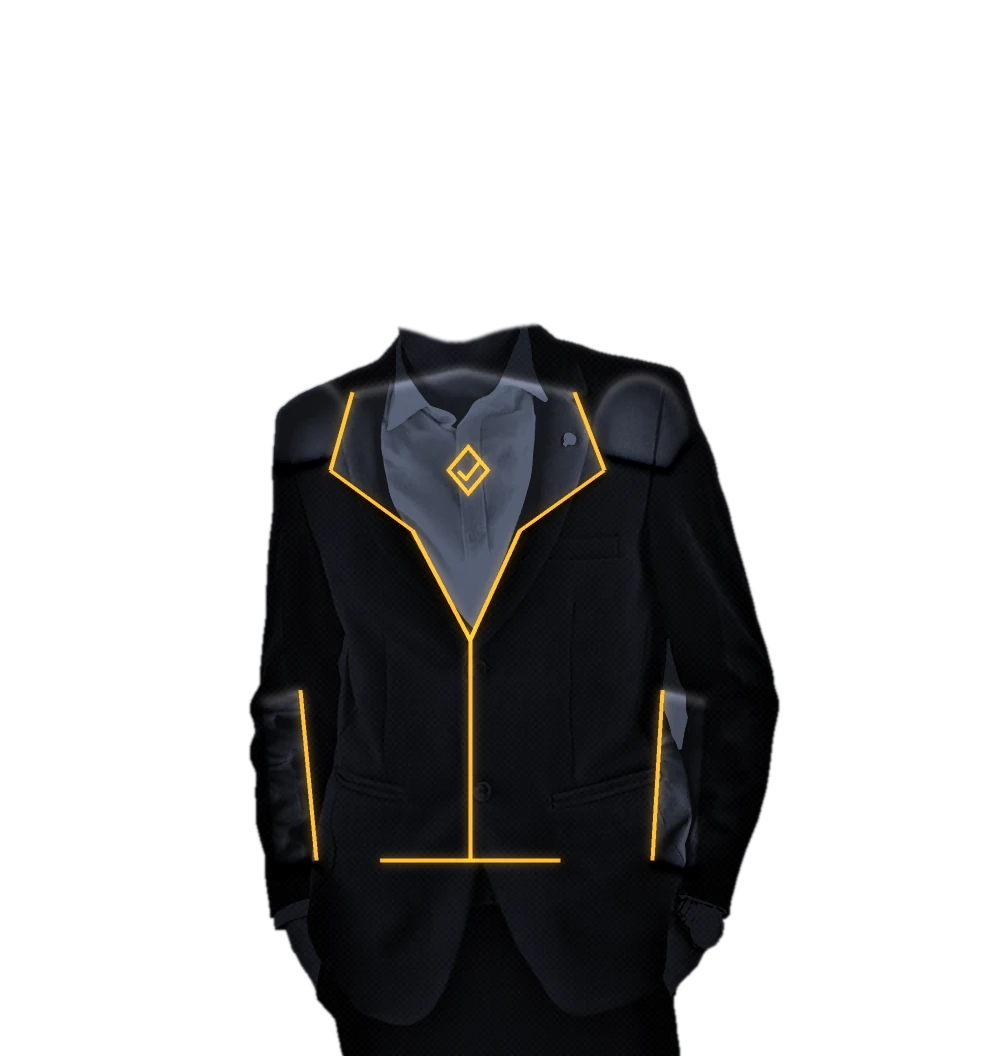
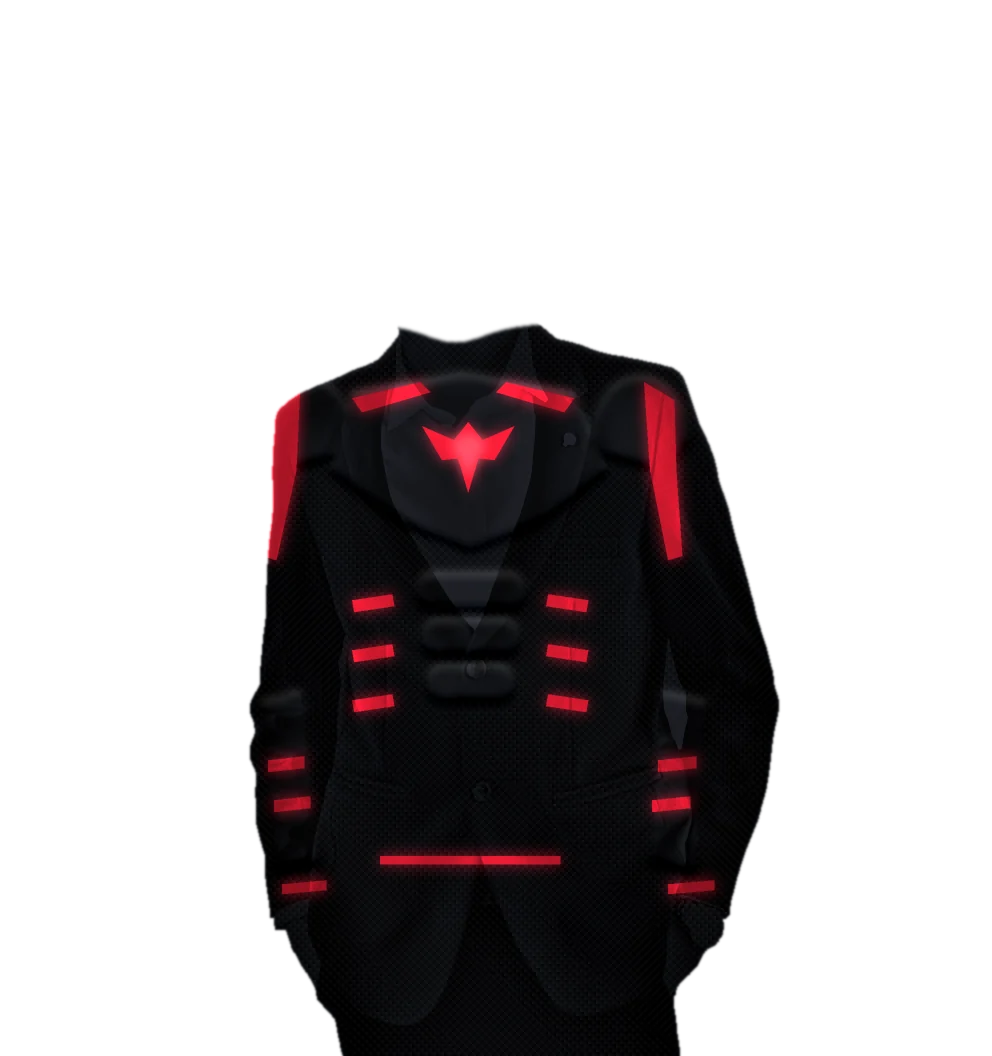
Restyle the suit as black armour with glowing red accents; use it in the hero
Based on the user's own concept art: matte black carbon-weave suit with
dark segmented armour (chest shield, pauldrons, ab plates, forearm
guards), glowing red shoulder stripes, ribs, cuffs and belt, and an
angular red chevron emblem. The face stays visible.

- public/about/suit.webp: overlay for the hanging About photo
- public/about/suited-cutout.webp: suited cut-out, now the hero's top
  layer; the hover lens still reveals the plain photo
- scripts/generate-suit-overlay.py regenerates both

Claude-Session: https://claude.ai/code/session_01HchGe6HDs7Z8A4Erf8KS2W

diff --git a/src/components/HeroSection.tsx b/src/components/HeroSection.tsx
@@ -12,7 +12,7 @@ const STATS = [
 ];
 
 /**
- * Portrait with a "hover to reveal" lens: a comic-poster version sits on top,
+ * Portrait with a "hover to reveal" lens: the suited-up version sits on top,
  * and a circular lens that follows the pointer reveals the real photo.
  */
 function RevealPortrait() {
@@ -55,7 +55,7 @@ function RevealPortrait() {
 
   const revealed = active || pinned;
   const real = "/spidey/me-cutout.webp";
-  const comic = resume.personal.alterEgo ?? "/spidey/comic.webp";
+  const comic = resume.personal.alterEgo ?? "/about/suited-cutout.webp";
 
   return (
     <div
@@ -74,7 +74,7 @@ function RevealPortrait() {
         setPinned((p) => !p);
       }}
       role="img"
-      aria-label={`${resume.personal.name} as comic-book art — hover or tap to reveal the photo`}
+      aria-label={`${resume.personal.name} in an armoured hero suit — hover or tap to reveal the photo`}
     >
       <div className="reveal-sky" aria-hidden="true">
         <div className="reveal-moon" />

diff --git a/scripts/generate-suit-overlay.py b/scripts/generate-suit-overlay.py
@@ -1,5 +1,6 @@
 """
-Generates an original tech-suit overlay for public/logos/me.png.
+Generates an original black-and-red armoured tech-suit overlay for
+public/logos/me.png, plus a suited cut-out for the hero.
 
 The overlay is the same size as the photo with a transparent background and
 covers only the body (from the collar down), so the face stays visible. It
@@ -46,21 +47,24 @@ cover = alpha * suit_m
 g = np.array(src.convert('L')).astype(float) / 255
 low = np.array(Image.fromarray((g * 255).astype(np.uint8)).filter(ImageFilter.GaussianBlur(28))).astype(float) / 255
 detail = np.clip((g - low) * 2.4, -0.45, 0.45)               # creases and folds
+detail *= np.clip(1.6 - low * 1.6, 0.35, 1.0)                # the white shirt shouldn't show through
 light = 0.5 + 0.35 * (1 - (yy - 330) / (H - 330)) - 0.18 * np.abs((xx - 470) / 330.0)  # soft key light from above
 shade = np.clip(light + detail, 0.12, 1.25)
 
-BASE = np.array([24, 26, 33])        # graphite
-PLATE = np.array([72, 79, 96])       # sculpted armour plates
-AMBER = np.array([255, 176, 46])
+BASE = np.array([16, 17, 21])        # matte black
+PLATE = np.array([27, 29, 35])       # armour plates, dark gunmetal
+RED = np.array([232, 28, 52])        # glowing accents
 
-# ---------- 4. panels ----------
+# ---------- 4. armour plates (segmented, dark) ----------
 plates = Image.new('L', (W, H), 0)
 pd = ImageDraw.Draw(plates)
-# chest plate: broad chevron across the pecs, narrowing down the sternum
-pd.polygon([(352, 392), (462, 368), (574, 392), (604, 470), (520, 530), (470, 640), (412, 530), (330, 470)], fill=255)
-# shoulder armour
+# chest plate: broad shield across the pecs
+pd.polygon([(352, 392), (462, 372), (574, 392), (606, 468), (540, 520), (470, 548), (400, 520), (330, 468)], fill=255)
+# abdominal segments
+for i, y0 in enumerate((572, 618, 664)):
+    w = 52 - i * 5
+    pd.rounded_rectangle([470 - w, y0, 470 + w, y0 + 34], radius=14, fill=255)
 def pauldron(cx, cy, rx, ry, side):
-    # rounded shoulder pad: a half-ellipse cap that curves down the arm
     pts = []
     for i in range(41):
         t = math.pi * (i / 40)
@@ -81,42 +85,64 @@ col = (BASE * (1 - pl[..., None]) + PLATE * pl[..., None]) * shade[..., None]
 # plate bevel: light top edge, dark lower edge
 bev = np.array(plates.filter(ImageFilter.GaussianBlur(4))).astype(float) / 255
 up = np.roll(bev, 3, axis=0)
-col += np.clip(bev - up, 0, 1)[..., None] * 150
-col -= np.clip(up - bev, 0, 1)[..., None] * 110
+col += np.clip(bev - up, 0, 1)[..., None] * 85
+col -= np.clip(up - bev, 0, 1)[..., None] * 70
 
-# subtle woven fabric texture on the graphite areas
-tex = ((np.sin(xx * 0.9 + yy * 0.9) + np.sin(xx * 0.9 - yy * 0.9)) * 0.5)
-col += (tex * 4 * (1 - pl))[..., None]
+# carbon-weave texture on the fabric areas
+weave = (((xx // 4 + yy // 4) % 2) * 2 - 1) * (np.sin((xx - yy) * 0.8) * 0.5 + 0.5)
+col += (weave * 7 * (1 - pl))[..., None]
 
-# ---------- 5. glowing amber seams + emblem ----------
-L = Image.new('L', (W * S, H * S), 0)
-ld = ImageDraw.Draw(L)
+# ---------- 5. glowing red accent panels + chevron emblem ----------
+A = Image.new('L', (W * S, H * S), 0)
+ad2 = ImageDraw.Draw(A)
 def P(pts): return [(x * S, y * S) for x, y in pts]
-seams = [
-    [(330, 470), (412, 530), (470, 640), (520, 530), (604, 470)],   # under the chest plate
-    [(352, 392), (330, 470)], [(574, 392), (604, 470)],
-    [(470, 640), (470, 860)],                                       # centre line to the belt
-    [(380, 860), (560, 860)],                                       # belt
-    [(300, 690), (316, 860)], [(662, 690), (652, 860)],             # forearm guards
-]
-for sm in seams:
-    ld.line(P(sm), fill=255, width=4 * S, joint='curve')
-# original emblem: a split diamond with a check stroke (QA, "tested")
-ex, ey = 468, 470
-ld.polygon(P([(ex, ey - 26), (ex + 22, ey), (ex, ey + 26), (ex - 22, ey)]), outline=255, width=4 * S)
-ld.line(P([(ex - 10, ey + 1), (ex - 2, ey + 9), (ex + 12, ey - 9)]), fill=255, width=4 * S, joint='curve')
-lines = np.array(L.resize((W, H), Image.LANCZOS)).astype(float) / 255
-glow = np.array(Image.fromarray((lines * 255).astype(np.uint8)).filter(ImageFilter.GaussianBlur(5))).astype(float) / 255
-col = col * (1 - lines[..., None] * 0.95) + AMBER * lines[..., None] * 0.95
-col += AMBER * (glow * 0.55)[..., None]
+# shoulder accent stripes sweeping down the outer arm
+ad2.polygon(P([(270, 400), (300, 382), (296, 470), (276, 560), (262, 556), (268, 470)]), fill=255)
+ad2.polygon(P([(674, 400), (644, 382), (650, 470), (668, 560), (682, 556), (676, 470)]), fill=255)
+# collar-bone accents leading to the emblem
+ad2.polygon(P([(352, 398), (420, 382), (430, 392), (362, 412)]), fill=255)
+ad2.polygon(P([(574, 398), (506, 382), (496, 392), (564, 412)]), fill=255)
+# side ribs
+for y0 in (600, 650, 700):
+    ad2.polygon(P([(352, y0), (392, y0 - 6), (394, y0 + 6), (354, y0 + 12)]), fill=255)
+    ad2.polygon(P([(588, y0), (548, y0 - 6), (546, y0 + 6), (586, y0 + 12)]), fill=255)
+# forearm bands and glove cuffs
+for (x1, x2, y) in ((268, 304, 760), (274, 310, 800), (658, 696, 760), (652, 690, 800)):
+    ad2.polygon(P([(x1, y), (x2, y - 4), (x2, y + 8), (x1, y + 12)]), fill=255)
+for (x1, x2) in ((282, 326), (668, 714)):   # thin glove cuffs at the wrist
+    ad2.polygon(P([(x1, 884), (x2, 880), (x2, 890), (x1, 894)]), fill=255)
+# belt line
+ad2.rectangle(P([(380, 856), (560, 864)]), fill=255)
+# emblem: an angular downward chevron with a notch (original)
+ex, ey = 468, 452
+emb = [(ex - 46, ey - 26), (ex - 14, ey - 12), (ex, ey - 30), (ex + 14, ey - 12), (ex + 46, ey - 26),
+       (ex + 26, ey + 8), (ex + 10, ey + 6), (ex, ey + 40), (ex - 10, ey + 6), (ex - 26, ey + 8)]
+ad2.polygon(P(emb), fill=255)
+acc = np.array(A.resize((W, H), Image.LANCZOS)).astype(float) / 255
+glow = np.array(Image.fromarray((acc * 255).astype(np.uint8)).filter(ImageFilter.GaussianBlur(7))).astype(float) / 255
+# accents keep the fabric shading so they read as lit panels, not stickers
+lit = np.clip(0.55 + 0.6 * shade, 0.5, 1.3)[..., None]
+col = col * (1 - acc[..., None]) + RED * lit * acc[..., None]
+col += RED * (glow * 0.65)[..., None] * (1 - acc[..., None])
+# hot core on the emblem
+core = Image.new('L', (W, H), 0)
+ImageDraw.Draw(core).polygon([(ex - 18, ey - 10), (ex, ey - 20), (ex + 18, ey - 10), (ex, ey + 24)], fill=255)
+core = np.array(core.filter(ImageFilter.GaussianBlur(5))).astype(float) / 255
+col += np.array([255, 120, 120])[None, None, :] * (core * 0.45)[..., None]
 
 # rim light on the shoulders
 rim = np.array(Image.fromarray((alpha * 255).astype(np.uint8)).filter(ImageFilter.FIND_EDGES).filter(ImageFilter.GaussianBlur(2))).astype(float) / 255
-col += (rim * 70 * np.clip((640 - yy) / 260.0, 0, 1))[..., None]   # fades out smoothly
+col += (rim * 60 * np.clip((640 - yy) / 260.0, 0, 1))[..., None]
 
 col = np.clip(col, 0, 255)
 out = np.zeros((H, W, 4), dtype=np.uint8)
 out[..., :3] = col.astype(np.uint8)
 out[..., 3] = (cover * 255).astype(np.uint8)
-Image.fromarray(out, 'RGBA').save(OUT, quality=88, method=6)
-print('ok', OUT)
+suit_img = Image.fromarray(out, 'RGBA')
+suit_img.save(OUT, quality=88, method=6)
+
+# hero layer: the cut-out photo wearing the suit (transparent background)
+HERO = OUT.replace('suit.webp', 'suited-cutout.webp')
+cut = src.convert('RGBA'); cut.putalpha(pm)
+Image.alpha_composite(cut, suit_img).save(HERO, quality=88, method=6)
+print('ok', OUT, HERO)
